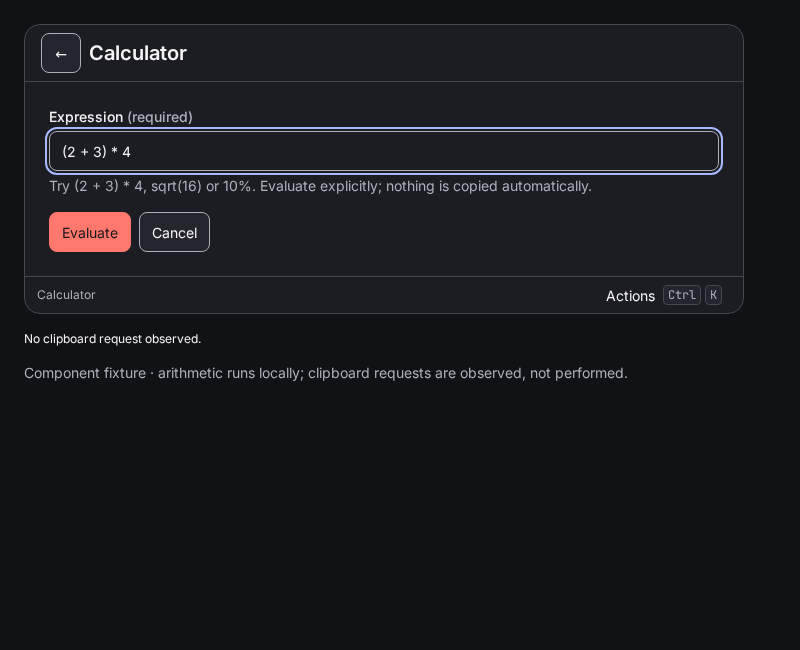
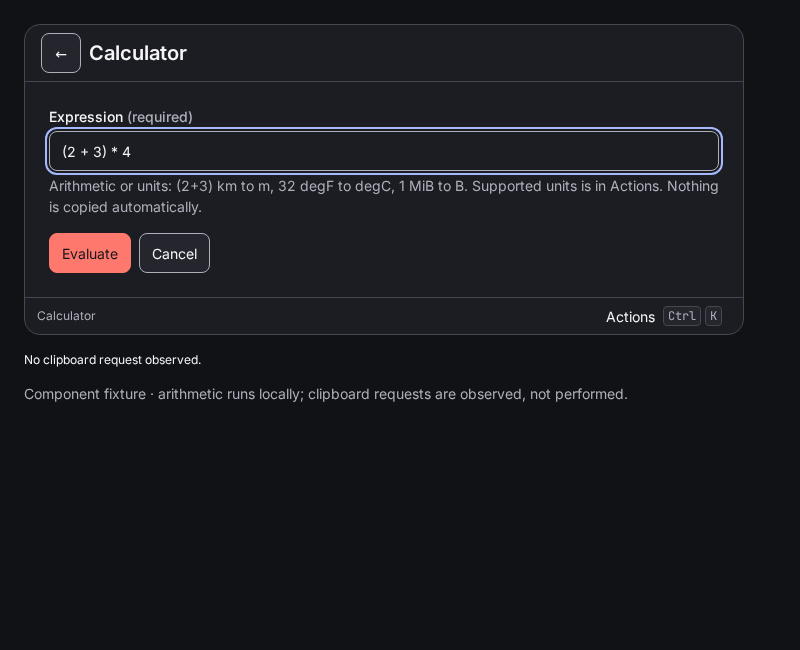
feat(calculator): present unit conversions and supported-unit help

Changed region(s): [[0.0312, 0.2769, 0.9062, 0.6154], [0.75, 0.4308, 0.9062, 0.5231]]

diff --git a/packages/builtins/calculator/src/presentation.ts b/packages/builtins/calculator/src/presentation.ts
@@ -1,44 +1,58 @@
-import { calculatorCopyReplySchema,calculatorExpressionSchema,calculatorResultTextSchema } from '@linuxcast/contracts';
+import { calculatorCopyReplySchema,calculatorExpressionSchema } from '@linuxcast/contracts';
 import type { LauncherApi,ViewModel } from '@linuxcast/contracts';
 import type { ActionIntent,ViewSession } from '@linuxcast/ui/views';
 import { evaluateExpression } from './evaluate.ts';
 import type { Calculation } from './types.ts';
-const EVALUATE='calculator:evaluate',CANCEL='calculator:cancel',COPY='calculator:copy',EDIT='calculator:edit';
+import { formatCalculationText } from './result.ts';
+import { getUnitCatalogue } from './units.ts';
+const EVALUATE='calculator:evaluate',CANCEL='calculator:cancel',COPY='calculator:copy',EDIT='calculator:edit',UNITS='calculator:units';
 const UNKNOWN='The copy outcome is unknown. Check your clipboard before choosing Copy result again.';
 const LEFT_PENDING='Copy may have occurred. Check your clipboard before copying again.';
 type Status={kind:'info'|'warning'|'error';message:string};
 type Success=Extract<Calculation,{ok:true}>;
-/** Local presentation only. Explicit numeric-result copy is the sole IPC action;
+/** Local presentation only. Explicit canonical-result copy is the sole IPC action;
  * main re-evaluates the expression and owns the actual clipboard operation. */
 export class CalculatorFlow {
   #session:ViewSession;#api:Pick<LauncherApi,'copyCalculatorResult'>;#registryRevision:number;
-  #formId:string;#resultId:string;#viewRevision=0;#opened=false;#resultOpen=false;#disposed=false;
+  #formId:string;#resultId:string;#helpId:string;#helpOpen=false;#viewRevision=0;#opened=false;#resultOpen=false;#disposed=false;
   #expression='';#error:string|undefined;#formStatus:Status|undefined;#resultStatus:Status|undefined;#calculation:Success|null=null;
   #pending:AbortController|null=null;
   constructor({session,api,viewId,revision}:{session:ViewSession;api:Pick<LauncherApi,'copyCalculatorResult'>;viewId:string;revision:number}){
-    this.#session=session;this.#api=api;this.#formId=`${viewId}-form`;this.#resultId=`${viewId}-result`;this.#registryRevision=revision;
+    this.#session=session;this.#api=api;this.#formId=`${viewId}-form`;this.#resultId=`${viewId}-result`;this.#helpId=`${viewId}-units`;this.#registryRevision=revision;
   }
   get active(){return this.#opened && !this.#disposed;}
-  owns(viewId:string){return viewId===this.#formId || viewId===this.#resultId;}
+  owns(viewId:string){return viewId===this.#formId || viewId===this.#resultId || viewId===this.#helpId;}
   open(fromViewId:string){
     if(this.#disposed || this.#opened || this.#session.getSnapshot().frames.at(-1)?.view.viewId!==fromViewId)return;
     this.#expression='';this.#error=undefined;this.#formStatus=undefined;this.#resultStatus=undefined;this.#calculation=null;
     this.#opened=this.#session.navigate({protocolVersion:1,kind:'push',fromViewId,view:this.#form()});
   }
   #form():ViewModel{return {protocolVersion:1,viewId:this.#formId,revision:++this.#viewRevision,kind:'form',title:'Calculator',
-    fields:[{id:'expression',kind:'text',title:'Expression',required:true,value:this.#expression,description:'Try (2 + 3) * 4, sqrt(16) or 10%. Evaluate explicitly; nothing is copied automatically.',...(this.#error?{error:this.#error}:{})}],
-    submitActionId:EVALUATE,cancelActionId:CANCEL,actions:[{id:EVALUATE,title:'Evaluate',kind:'invoke',effect:'read'},{id:CANCEL,title:'Cancel',kind:'invoke',effect:'read'}],...(this.#formStatus?{status:this.#formStatus}:{})};}
+    fields:[{id:'expression',kind:'text',title:'Expression',required:true,value:this.#expression,description:'Arithmetic or units: (2+3) km to m, 32 degF to degC, 1 MiB to B. Supported units is in Actions. Nothing is copied automatically.',...(this.#error?{error:this.#error}:{})}],
+    submitActionId:EVALUATE,cancelActionId:CANCEL,actions:[{id:EVALUATE,title:'Evaluate',kind:'invoke',effect:'read'},{id:CANCEL,title:'Cancel',kind:'invoke',effect:'read'},{id:UNITS,title:'Supported units',kind:'invoke',effect:'read'}],...(this.#formStatus?{status:this.#formStatus}:{})};}
   #result():ViewModel{return {protocolVersion:1,viewId:this.#resultId,revision:++this.#viewRevision,kind:'detail',title:'Calculation',loading:this.#pending!==null,
     markdown:'Numbers use floating-point arithmetic. Results are approximations shown with up to 15 significant digits. `%` divides the preceding value by 100; for example, 10% is 0.1.',
-    metadata:[{label:'Expression',value:this.#expression},{label:'Result',value:this.#calculation!.text}],attachments:[],
+    metadata:[{label:'Expression',value:this.#expression},{label:'Result',value:formatCalculationText(this.#calculation!)}],attachments:[],
     actions:[{id:COPY,title:'Copy result',kind:'invoke',effect:'write',...(this.#pending?{disabledReason:'Wait for the current copy request.'}:!this.#api.copyCalculatorResult?{disabledReason:'Clipboard copying is unavailable. Reopen Linuxcast to reconnect.'}:{})},{id:EDIT,title:'Edit expression',kind:'invoke',effect:'read'}],
     ...(this.#resultStatus?{status:this.#resultStatus}:!this.#api.copyCalculatorResult?{status:{kind:'warning',message:'Clipboard copying is unavailable. You can still evaluate and read results. Reopen Linuxcast to reconnect.'}}:{})};}
+  #help():ViewModel{
+    const groups=new Map<string,string[]>();
+    for(const unit of getUnitCatalogue()){
+      const label=unit.dimension.replace(/\b[a-z]/gu,letter=>letter.toUpperCase());
+      const entries=groups.get(label)??[];entries.push(`${unit.id} — ${unit.label}`);groups.set(label,entries);
+    }
+    return {protocolVersion:1,viewId:this.#helpId,revision:++this.#viewRevision,kind:'detail',title:'Supported units',
+      markdown:'Use a scalar arithmetic expression, a source unit, `to`, and a target in the same category. Examples: `(2+3) km to m`, `32 degF to degC`, `1 MiB to B`. Symbols are case-sensitive; use exactly the listed symbols.\n\nDuration `d` is 24 hours and `wk` is 7 days; these are fixed durations, not calendar dates or daylight-saving calculations. `degC` and `degF` represent absolute temperatures, not temperature differences. Absolute bounds are K ≥ 0, degC ≥ -273.15 and degF ≥ -459.67.\n\nData uses decimal prefixes (`kB`, `MB`) in powers of 1000 and binary prefixes (`KiB`, `MiB`) in powers of 1024. `B` means bytes and `bit` means bits.\n\nVolume symbols beginning with `US_` are US liquid measures. Symbols beginning with `imp_` are imperial measures. Use explicit symbols such as `US_gal` or `imp_gal`; bare `gal` is not supported. `oz` is mass; fluid ounces use `US_fl_oz` or `imp_fl_oz`.',
+      metadata:[...groups].map(([label,entries])=>({label,value:entries.join('; ')})),attachments:[],actions:[{id:EDIT,title:'Back to expression',kind:'invoke',effect:'read'}]};
+  }
   #publishForm(){if(this.active)this.#session.update(this.#formId,{protocolVersion:1,kind:'snapshot',view:this.#form()});}
   #publishResult(){if(this.active && this.#resultOpen && this.#calculation)this.#session.update(this.#resultId,{protocolVersion:1,kind:'snapshot',view:this.#result()});}
   async handle(intent:ActionIntent){
     const top=this.#session.getSnapshot().frames.at(-1);
     if(!this.active || !top || !this.owns(intent.viewId) || top.view.viewId!==intent.viewId || top.view.revision!==intent.revision || top.selection!==null || intent.itemId!==undefined || Object.keys(intent).some(key=>!['viewId','revision','actionId','values'].includes(key)))return;
+    if(intent.viewId===this.#helpId){if(this.#helpOpen && intent.actionId===EDIT && intent.values===undefined)this.#session.pop();return;}
     if(intent.viewId===this.#formId){
+      if(intent.actionId===UNITS && intent.values===undefined && !this.#pending && !this.#resultOpen && !this.#helpOpen){this.#helpOpen=this.#session.navigate({protocolVersion:1,kind:'push',fromViewId:this.#formId,view:this.#help()});return;}
       if(intent.actionId===CANCEL && intent.values===undefined){this.#session.pop();return;}
       if(intent.actionId!==EVALUATE || this.#pending)return;
       const values=intent.values,expression=values?.expression;
@@ -47,8 +61,8 @@ export class CalculatorFlow {
       if(!calculatorExpressionSchema.safeParse(expression).success){this.#error='Use a non-empty expression up to 512 UTF-8 bytes without control characters.';this.#publishForm();return;}
       let result:Calculation;
       try{result=evaluateExpression(expression);}catch{this.#error='This expression could not be evaluated. Check it and try again.';this.#publishForm();return;}
-      if(!result.ok){this.#error=result.code==='domain-error'?'This expression has no finite real result. Check divisions and function inputs.':result.code==='limit-exceeded'?'Reduce the expression length, number of operations or nesting depth.':'Enter a supported arithmetic expression.';this.#publishForm();return;}
-      if(!Number.isFinite(result.value) || !calculatorResultTextSchema.safeParse(result.text).success){this.#error='This expression could not be evaluated. Check it and try again.';this.#publishForm();return;}
+      if(!result.ok){this.#error=result.code==='domain-error'?(/\bto\b/u.test(expression)?'This expression has no finite real result. Check divisions, function inputs and absolute temperatures: K ≥ 0, degC ≥ -273.15, degF ≥ -459.67.':'This expression has no finite real result. Check divisions and function inputs.'):result.code==='limit-exceeded'?'Reduce the expression length, number of operations or nesting depth.':result.code==='unsupported-unit'?'Use a supported, case-sensitive unit symbol. Open Supported units in Actions for the list.':result.code==='incompatible-units'?'Choose source and target units from the same category. See Supported units in Actions.':'Enter a supported arithmetic expression.';this.#publishForm();return;}
+      try{formatCalculationText(result);}catch{this.#error='This expression could not be evaluated. Check it and try again.';this.#publishForm();return;}
       this.#error=undefined;this.#calculation=result;this.#resultStatus=undefined;this.#publishForm();
       this.#resultOpen=this.#session.navigate({protocolVersion:1,kind:'push',fromViewId:this.#formId,view:this.#result()});return;
     }
@@ -63,7 +77,7 @@ export class CalculatorFlow {
       if(!reply.ok){
         this.#resultStatus=['invalid-request','capability-unavailable','permission-denied','conflict','cancelled'].includes(reply.error.code)?{kind:'error',message:'The result was not copied. Check clipboard access or reopen Calculator, then choose Copy result again.'}:{kind:'error',message:UNKNOWN};return;
       }
-      if(reply.value.text!==calculation.text)throw new Error('Unconfirmed copy.');
+      if(reply.value.text!==calculation.text || reply.value.unit!==calculation.unit)throw new Error('Unconfirmed copy.');
       this.#resultStatus={kind:'info',message:'Result copied.'};
     }catch{if(this.#current(controller,calculation))this.#resultStatus={kind:'error',message:UNKNOWN};}
     finally{if(this.#pending===controller){this.#pending=null;if(this.active && this.#resultOpen && this.#session.getSnapshot().frames.at(-1)?.view.viewId===this.#resultId)this.#publishResult();}}
@@ -71,13 +85,14 @@ export class CalculatorFlow {
   #current(controller:AbortController,calculation:Success){return this.active && !controller.signal.aborted && this.#pending===controller && this.#calculation===calculation && this.#resultOpen && this.#session.getSnapshot().frames.at(-1)?.view.viewId===this.#resultId;}
   closed(viewId:string){
     if(!this.owns(viewId))return false;
+    if(viewId===this.#helpId){this.#helpOpen=false;return true;}
     if(viewId===this.#resultId){
       if(this.#pending){this.#pending.abort();this.#pending=null;this.#formStatus={kind:'warning',message:LEFT_PENDING};}
       this.#resultOpen=false;this.#calculation=null;this.#resultStatus=undefined;this.#publishForm();
-    }else{this.#opened=false;this.#resultOpen=false;this.#pending?.abort();this.#pending=null;this.#calculation=null;this.#expression='';}
+    }else{this.#opened=false;this.#resultOpen=false;this.#helpOpen=false;this.#pending?.abort();this.#pending=null;this.#calculation=null;this.#expression='';}
     return true;
   }
-  dispose(){this.#disposed=true;this.#opened=false;this.#resultOpen=false;this.#pending?.abort();this.#pending=null;this.#calculation=null;this.#expression='';}
+  dispose(){this.#disposed=true;this.#opened=false;this.#resultOpen=false;this.#helpOpen=false;this.#pending?.abort();this.#pending=null;this.#calculation=null;this.#expression='';}
 }
 function bounded<T>(promise:Promise<T>,signal:AbortSignal):Promise<T>{return new Promise((resolve,reject)=>{
   const finish=(fn:()=>void)=>{clearTimeout(timer);signal.removeEventListener('abort',abort);fn();};const abort=()=>finish(()=>reject(new Error('Cancelled.')));const timer=setTimeout(()=>finish(()=>reject(new Error('Deadline exceeded.'))),5000);signal.addEventListener('abort',abort,{once:true});if(signal.aborted){abort();return;}void promise.then(value=>finish(()=>resolve(value)),()=>finish(()=>reject(new Error('Request failed.'))));

diff --git a/packages/builtins/calculator/tests/presentation.test.ts b/packages/builtins/calculator/tests/presentation.test.ts
@@ -13,7 +13,7 @@ function act(f:ReturnType<typeof setup>,actionId:string,values?:Record<string,st
 const evaluate=(f:ReturnType<typeof setup>,expression='(2 + 3) * 4')=>act(f,'calculator:evaluate',{expression});
 describe('L2-04 Calculator shared presentation',()=>{
   it('opens only a labelled shared Form and preserves root query/selection without any IPC',()=>{
-    const f=setup();expect(f.flow.active).toBe(true);expect(top(f).view).toMatchObject({kind:'form',title:'Calculator',fields:[{id:'expression',title:'Expression',value:''}],actions:[{title:'Evaluate',effect:'read'},{title:'Cancel'}]});expect(f.session.getSnapshot().frames[0]).toMatchObject({query:'calculator',selection:'calculator'});expect(f.api.copyCalculatorResult).not.toHaveBeenCalled();f.flow.open('root');expect(f.session.getSnapshot().frames).toHaveLength(2);
+    const f=setup();expect(f.flow.active).toBe(true);expect(top(f).view).toMatchObject({kind:'form',title:'Calculator',fields:[{id:'expression',title:'Expression',value:''}],actions:[{title:'Evaluate',effect:'read'},{title:'Cancel'},{title:'Supported units',effect:'read'}]});expect(f.session.getSnapshot().frames[0]).toMatchObject({query:'calculator',selection:'calculator'});expect(f.api.copyCalculatorResult).not.toHaveBeenCalled();f.flow.open('root');expect(f.session.getSnapshot().frames).toHaveLength(2);
   });
   it('evaluates only on submit and renders static readonly metadata with approximation/percent semantics',async()=>{
     const f=setup();await evaluate(f);expect(top(f).view).toMatchObject({kind:'detail',title:'Calculation',metadata:[{label:'Expression',value:'(2 + 3) * 4'},{label:'Result',value:'20'}],attachments:[],actions:[{title:'Copy result',effect:'write'},{title:'Edit expression',effect:'read'}]});const view=top(f).view;if(view.kind!=='detail')throw new Error();expect(view.markdown).toContain('15 significant digits');expect(view.markdown).toContain('divides the preceding value by 100');expect(f.api.copyCalculatorResult).not.toHaveBeenCalled();
@@ -58,5 +58,38 @@ describe('L2-04 Calculator shared presentation',()=>{
   });
   it('ignores hidden result actions and obsolete evaluation revisions after returning to the form',async()=>{
     const f=setup(),form=top(f);await evaluate(f);const detail=top(f);await f.flow.handle({viewId:form.view.viewId,revision:form.view.revision,actionId:'calculator:evaluate',values:{expression:'9+9'}});f.session.pop();await f.flow.handle({viewId:detail.view.viewId,revision:detail.view.revision,actionId:'calculator:copy'});expect(f.api.copyCalculatorResult).not.toHaveBeenCalled();expect(top(f).view).toMatchObject({fields:[{value:'(2 + 3) * 4'}]});
+  });
+});
+
+describe('L2-04 closed-unit presentation',()=>{
+  it.each([
+    ['(2+3) km to m','5000 m'],['sqrt(16) km to m','4000 m'],['32 degF to degC','0 degC'],['1 MiB to B','1048576 B'],['1 MB to B','1000000 B'],['8 bit to B','1 B'],
+  ])('shows canonical unit result for %s without implicit copy',async(expression,expected)=>{
+    const f=setup();await evaluate(f,expression);expect(top(f).view).toMatchObject({kind:'detail',metadata:[{label:'Expression',value:expression},{label:'Result',value:expected}]});expect(f.api.copyCalculatorResult).not.toHaveBeenCalled();
+  });
+  it.each(['1 mb to B','1 gal to L','1 C to F'])('retains unsupported or ambiguous unit %s with case-sensitive help remediation',async expression=>{
+    const f=setup();await evaluate(f,expression);expect(top(f).view).toMatchObject({kind:'form',fields:[{value:expression,error:'Use a supported, case-sensitive unit symbol. Open Supported units in Actions for the list.'}]});expect(f.api.copyCalculatorResult).not.toHaveBeenCalled();
+  });
+  it('retains incompatible units and invalid absolute temperature as fixed inline failures',async()=>{
+    const f=setup();await evaluate(f,'1 m to kg');expect(top(f).view).toMatchObject({fields:[{error:'Choose source and target units from the same category. See Supported units in Actions.'}]});await evaluate(f,'-1 K to degC');expect(top(f).view).toMatchObject({fields:[{error:'This expression has no finite real result. Check divisions, function inputs and absolute temperatures: K ≥ 0, degC ≥ -273.15, degF ≥ -459.67.'}]});expect(f.api.copyCalculatorResult).not.toHaveBeenCalled();
+  });
+  it('opens readonly help only from Form, uses fixed public metadata and preserves the existing Form frame',async()=>{
+    const f=setup(),before=top(f);await act(f,'calculator:units');expect(f.flow.owns('test-calculator-units')).toBe(true);expect(top(f).view).toMatchObject({kind:'detail',title:'Supported units',attachments:[],actions:[{title:'Back to expression',effect:'read'}]});const help=top(f).view;if(help.kind!=='detail')throw new Error();expect(help.metadata).toHaveLength(12);expect(help.metadata.map(value=>value.label)).toEqual(expect.arrayContaining(['Length','Mass','Duration','Temperature','Angle','Data','Area','Volume','Speed','Energy','Power','Pressure']));expect(help.metadata.find(value=>value.label==='Data')?.value).toContain('MiB');expect(help.markdown).toContain('case-sensitive');expect(help.markdown).toContain('fixed durations');expect(help.markdown).toContain('absolute temperatures');expect(help.markdown).toContain('imperial');await act(f,'calculator:copy');await act(f,'calculator:evaluate',{expression:'2+2'});expect(top(f).view.title).toBe('Supported units');expect(f.api.copyCalculatorResult).not.toHaveBeenCalled();await act(f,'calculator:edit');expect(top(f).view).toBe(before.view);expect(f.session.getSnapshot().frames).toHaveLength(2);await evaluate(f);await act(f,'calculator:units');expect(top(f).view.title).toBe('Calculation');expect(f.session.getSnapshot().frames).toHaveLength(3);
+  });
+  it('rejects stale help actions after reopening and disposes without a result or copy',async()=>{
+    const f=setup();await act(f,'calculator:units');const old=top(f);f.session.pop();await act(f,'calculator:units');await f.flow.handle({viewId:old.view.viewId,revision:old.view.revision,actionId:'calculator:edit'});expect(top(f).view.title).toBe('Supported units');f.session.pop();f.session.pop();expect(f.flow.active).toBe(false);f.flow.dispose();expect(f.api.copyCalculatorResult).not.toHaveBeenCalled();
+  });
+  it('accepts a unit copy receipt only when both numeric text and canonical unit match',async()=>{
+    const copy=vi.fn<NonNullable<LauncherApi['copyCalculatorResult']>>(async()=>({ok:true,value:{outcome:'copied',text:'5000',unit:'m'}}));const f=setup({copyCalculatorResult:copy});await evaluate(f,'(2+3) km to m');await act(f,'calculator:copy');expect(copy).toHaveBeenCalledExactlyOnceWith({revision:7,expression:'(2+3) km to m'});expect(top(f).view.status?.message).toBe('Result copied.');
+  });
+  it.each(['wrong-unit','missing-unit','unknown-unit','invalid-unit','wrong-number'] as const)('treats %s receipt as unknown rather than claiming a unit copy',async mode=>{
+    const reply={ok:true,value:{outcome:'copied',text:mode==='wrong-number'?'5':'5000',...(mode==='missing-unit'?{}:{unit:mode==='wrong-unit'?'km':mode==='unknown-unit'?'USD':mode==='invalid-unit'?null:'m'})}};
+    const copy=vi.fn<NonNullable<LauncherApi['copyCalculatorResult']>>(async()=>reply as never);const f=setup({copyCalculatorResult:copy});await evaluate(f,'(2+3) km to m');await act(f,'calculator:copy');expect(top(f).view.status?.message).toBe('The copy outcome is unknown. Check your clipboard before choosing Copy result again.');expect(copy).toHaveBeenCalledTimes(1);
+  });
+  it('rejects a unit-bearing receipt for a unitless arithmetic result',async()=>{
+    const f=setup({copyCalculatorResult:vi.fn<NonNullable<LauncherApi['copyCalculatorResult']>>(async()=>({ok:true,value:{outcome:'copied',text:'20',unit:'m'}}))});await evaluate(f);await act(f,'calculator:copy');expect(top(f).view.status?.message).toContain('Check your clipboard');
+  });
+  it('ignores a late unit receipt after editing and evaluating a different conversion',async()=>{
+    let finish!:(value:Awaited<ReturnType<NonNullable<LauncherApi['copyCalculatorResult']>>>)=>void;const copy=vi.fn<NonNullable<LauncherApi['copyCalculatorResult']>>(()=>new Promise(resolve=>{finish=resolve;}));const f=setup({copyCalculatorResult:copy});await evaluate(f,'(2+3) km to m');const pending=act(f,'calculator:copy');await act(f,'calculator:edit');await evaluate(f,'1 MiB to B');await pending;const before=f.session.getSnapshot();finish({ok:true,value:{outcome:'copied',text:'5000',unit:'m'}});await Promise.resolve();expect(f.session.getSnapshot()).toBe(before);expect(top(f).view).toMatchObject({metadata:[{label:'Expression',value:'1 MiB to B'},{label:'Result',value:'1048576 B'}]});expect(top(f).view.status?.message).not.toBe('Result copied.');expect(copy).toHaveBeenCalledTimes(1);
   });
 });

diff --git a/packages/builtins/calculator/tests/calculator.ui.test.ts b/packages/builtins/calculator/tests/calculator.ui.test.ts
@@ -34,3 +34,17 @@ for(const mode of ['unknown','mismatch'])test(`${mode} copy receipt requires che
 test('known clipboard unavailability is actionable and a missing API leaves evaluation available',async({page})=>{
   await ready(page,'?state=unavailable');await evaluate(page);await page.getByRole('button',{name:'Copy result Enter',exact:true}).click();await expect(page.getByRole('alert')).toContainText('Check clipboard access');await page.screenshot({path:`${evidence}/dark-copy-unavailable.png`,fullPage:true});await ready(page,'?state=missing-api&theme=light');await evaluate(page,'10%');await expect(page.getByText('0.1',{exact:true})).toBeVisible();await expect(page.getByRole('button',{name:'Copy result Enter',exact:true})).toBeDisabled();await expect(page.getByText(/Clipboard copying is unavailable. You can still evaluate/)).toBeVisible();expect((await new AxeBuilder({page}).analyze()).violations).toEqual([]);await page.screenshot({path:`${evidence}/light-copy-missing.png`,fullPage:true});
 });
+
+async function supportedUnits(page:Page){await page.keyboard.press('Control+k');const query=page.getByRole('searchbox',{name:'Find an action'});await query.fill('Supported units');await query.press('Enter');await expect(page.getByRole('heading',{name:'Supported units',exact:true})).toBeVisible();}
+for(const theme of ['dark','light'])test(`${theme} explicit conversion shows canonical units and copies only on request`,async({page})=>{
+  await ready(page,`?theme=${theme}`);await expect(page.getByText(/Arithmetic or units:/)).toContainText('(2+3) km to m');await evaluate(page,'(2+3) km to m');await expect(page.getByText('5000 m',{exact:true})).toBeVisible();await expect(page.locator('output')).toHaveText('No clipboard request observed.');expect((await new AxeBuilder({page}).analyze()).violations).toEqual([]);await page.screenshot({path:`${evidence}/${theme}-unit-result.png`,fullPage:true});await page.getByRole('button',{name:'Copy result Enter',exact:true}).click();await expect(page.getByText('Result copied.',{exact:true})).toBeVisible();await expect(page.locator('output')).toHaveText('Requested numeric result copy for (2+3) km to m.');await edit(page);await evaluate(page,'32 degF to degC');await expect(page.getByText('0 degC',{exact:true})).toBeVisible();await edit(page);await evaluate(page,'1 MiB to B');await expect(page.getByText('1048576 B',{exact:true})).toBeVisible();await edit(page);await evaluate(page,'1 MB to B');await expect(page.getByText('1000000 B',{exact:true})).toBeVisible();
+});
+for(const theme of ['dark','light'])test(`${theme} readonly Supported units preserves an unsent draft/focus and does not evaluate or copy`,async({page})=>{
+  await ready(page,`?theme=${theme}`);await field(page).fill('sqrt(16) km to m');await supportedUnits(page);await expect(page.getByRole('dialog',{name:'Discard this draft?',exact:true})).not.toBeVisible();await expect(page.getByText('Length',{exact:true})).toBeVisible();await expect(page.getByText('Temperature',{exact:true})).toBeVisible();await expect(page.getByText('Volume',{exact:true})).toBeVisible();await expect(page.getByText(/Symbols are case-sensitive/)).toBeVisible();await expect(page.getByRole('heading',{name:'Calculation',exact:true})).not.toBeVisible();await expect(page.locator('output')).toHaveText('No clipboard request observed.');expect((await new AxeBuilder({page}).analyze()).violations).toEqual([]);await page.screenshot({path:`${evidence}/${theme}-supported-units.png`,fullPage:true});await page.keyboard.press('Escape');await expect(field(page)).toHaveValue('sqrt(16) km to m');await expect(field(page)).toBeFocused();await field(page).press('Enter');await expect(page.getByText('4000 m',{exact:true})).toBeVisible();await page.keyboard.press('Control+k');await page.getByRole('searchbox',{name:'Find an action'}).fill('Supported units');await expect(page.getByRole('button',{name:'Supported units',exact:true})).toHaveCount(0);await page.keyboard.press('Escape');
+});
+for(const theme of ['dark','light'])test(`${theme} unsupported and incompatible unit errors retain drafts with help remediation`,async({page})=>{
+  await ready(page,`?theme=${theme}`);await field(page).fill('1 mb to B');await field(page).press('Enter');await expect(field(page)).toHaveValue('1 mb to B');await expect(page.getByText('Use a supported, case-sensitive unit symbol. Open Supported units in Actions for the list.',{exact:true})).toBeVisible();expect((await new AxeBuilder({page}).analyze()).violations).toEqual([]);await page.screenshot({path:`${evidence}/${theme}-unit-validation.png`,fullPage:true});await field(page).fill('1 m to kg');await field(page).press('Enter');await expect(page.getByText('Choose source and target units from the same category. See Supported units in Actions.',{exact:true})).toBeVisible();await field(page).fill('1 gal to L');await field(page).press('Enter');await expect(page.getByText('Use a supported, case-sensitive unit symbol. Open Supported units in Actions for the list.',{exact:true})).toBeVisible();await field(page).fill('-1 K to degC');await field(page).press('Enter');await expect(page.getByText('This expression has no finite real result. Check divisions, function inputs and absolute temperatures: K ≥ 0, degC ≥ -273.15, degF ≥ -459.67.',{exact:true})).toBeVisible();await expect(page.locator('output')).toHaveText('No clipboard request observed.');
+});
+for(const mode of ['unit-mismatch','unit-missing','unit-unknown'])test(`${mode} copy acknowledgement stays unknown and is never replayed`,async({page})=>{
+  await ready(page,`?state=${mode}`);await evaluate(page,'(2+3) km to m');await page.getByRole('button',{name:'Copy result Enter',exact:true}).click();await expect(page.getByRole('alert')).toContainText('Check your clipboard');await expect(page.getByText('Result copied.',{exact:true})).not.toBeVisible();await edit(page);await evaluate(page,'1 MiB to B');await expect(page.locator('output')).toHaveText('Requested numeric result copy for (2+3) km to m.');
+});

diff --git a/packages/builtins/calculator/fixtures/main.tsx b/packages/builtins/calculator/fixtures/main.tsx
@@ -20,9 +20,12 @@ function Fixture(){
       if(mode==='pending')await new Promise(resolve=>setTimeout(resolve,600));
       if(mode==='unknown')throw new Error('synthetic private detail');
       if(mode==='unavailable')return {ok:false,error:{code:'capability-unavailable',message:'synthetic private detail',retryable:false}};
+      if(mode==='unit-mismatch')return {ok:true,value:{outcome:'copied',text:'5000',unit:'km'}};
+      if(mode==='unit-missing')return {ok:true,value:{outcome:'copied',text:'5000'}};
+      if(mode==='unit-unknown')return {ok:true,value:{outcome:'copied',text:'5000',unit:'not-a-unit'}} as never;
       if(mode==='mismatch')return {ok:true,value:{outcome:'copied',text:'999'}};
       const result=evaluateExpression(request.expression);if(!result.ok)return {ok:false,error:{code:'invalid-request',message:'synthetic private detail',retryable:false}};
-      return {ok:true,value:{outcome:'copied',text:result.text}};
+      return {ok:true,value:{outcome:'copied',text:result.text,...(result.unit?{unit:result.unit}:{})}};
     }};
     const flow=new CalculatorFlow({session,api,viewId:'fixture-calculator',revision:7});
     const host:ViewHost={action:intent=>{if(flow.active){void flow.handle(intent);return;}if(intent.actionId==='calculator')flow.open('root');}};

diff --git a/packages/builtins/calculator/README.md b/packages/builtins/calculator/README.md
@@ -1,4 +1,4 @@
-# Explicit arithmetic calculator — bounded L2-04 increment
+# Explicit arithmetic and unit calculator — bounded L2-04 increments
 
 `CalculatorFlow` uses the existing launcher's shared `ViewSession` and host
 `ViewRenderer`. It pushes a Calculator Form onto the supplied parent view, then
@@ -18,9 +18,9 @@ cannot supply HTML, Markdown, links or executable content.
 
 **Copy result** is a separate primary write action. It uses only the optional
 named `copyCalculatorResult({revision, expression})` API. Main re-evaluates the
-expression and copies numeric result text; the renderer has no arbitrary
-clipboard interface. A strict copied receipt must carry exactly the result text
-shown in the Detail before the UI reports “Result copied.” No automatic copy,
+expression and copies the canonical numeric result with its optional closed unit; the renderer
+has no arbitrary clipboard interface. A strict copied receipt must match both
+the numeric text and optional unit shown in the Detail before the UI reports “Result copied.” No automatic copy,
 hide, persistence, expression history or remote request is introduced.
 
 Pending copy disables duplicates and has a five-second presentation bound.
@@ -39,6 +39,45 @@ the shared discard UI. Action handling validates current owned view/revision,
 absence of item selection, allowed intent keys and the exact single Expression
 form value. Stale, hidden, malformed and disposed intents cannot evaluate/copy.
 
+## Unit conversion and read-only help
+
+The same Form accepts a scalar arithmetic expression followed by a supported
+source unit, `to`, and a target from the same category. Examples are `(2+3) km to
+m`, `32 degF to degC` and `1 MiB to B`; function scalars such as `sqrt(16) km to
+m` use the same evaluator. Arithmetic without units retains its existing result
+format. Conversion results use the shared `formatCalculationText` formatter:
+numeric text, one space and the canonical unit symbol. The main process uses the
+same formatter when it independently recomputes a requested copy.
+
+**Supported units** is a discoverable read action in the Form's Actions panel.
+It pushes a read-only shared Detail with fixed semantic instructions and public
+catalogue metadata grouped into Length, Mass, Duration, Temperature, Angle, Data,
+Area, Volume, Speed, Energy, Power and Pressure. Help does not evaluate, submit,
+copy or discard the unsent Form draft. Back/Escape returns to that same mounted
+Form. Help is unavailable from a result so the launcher keeps at most two nested
+calculator frames: Form plus either result or help.
+
+Symbols are case-sensitive and limited to the closed 92-symbol catalogue;
+unsupported or ambiguous identifiers receive fixed Supported units remediation.
+Incompatible categories receive a fixed same-category explanation. Prefixes,
+unit names and dimension-changing quantity algebra are not inferred.
+
+- `d` is exactly 24 hours; `wk` is seven such days. These are fixed durations,
+  separate from calendar dates, timezones and daylight-saving transitions.
+- `K`, `degC` and `degF` represent absolute temperatures. Temperature differences
+  and contextual interpretations are unsupported. Bounds are K ≥ 0,
+  degC ≥ -273.15 and degF ≥ -459.67; lower values receive a fixed domain error.
+- Data prefixes `kB`/`MB` and their bit equivalents use powers of 1000;
+  `KiB`/`MiB` and their bit equivalents use powers of 1024. `B` means bytes and
+  `bit` means bits. Capitalization is significant.
+- `US_gal`, `US_qt`, `US_pt` and `US_fl_oz` are US liquid measures.
+  `imp_gal` and `imp_fl_oz` are imperial measures. Bare `gal` is unsupported;
+  `oz` is a mass unit, while fluid ounces use the explicit volume identifiers.
+
+Copy remains explicit. Missing, mismatched, invalid or unknown acknowledgement
+units are unknown copy outcomes, even if the numeric text matches. Back, hidden,
+disposed and stale unit-copy replies retain the existing no-replay guards.
+
 Design references: DESIGN.md Shell and navigation; Results and actions; List,
 grid, detail and form; States and motion; Accessibility; Review gate. Production
 presentation contains only semantic ViewModels and existing host primitives,
@@ -46,24 +85,27 @@ tokens/fonts. `fixtures/preview.css` only lays out the labelled fixture.
 
 ## Evidence and remaining scope
 
-`tests/presentation.test.ts` has 29 passing presentation checks and
-`tests/calculator.ui.test.ts` has 10 passing Chromium keyboard/axe checks covering
+`tests/presentation.test.ts` has 49 passing presentation checks and
+`tests/calculator.ui.test.ts` has 19 passing Chromium keyboard/axe checks covering
 explicit Form and Detail transitions, draft errors/domain/oversize, clipboard unavailability,
 unknown/mismatched/pending replies, back/dirty cancel/focus, stale/disposed actions
-and local readonly metadata. `fixtures/` explicitly observes clipboard requests
+and local readonly metadata. Unit cases add length/function-scalar, temperature, decimal/binary
+data, unsupported/ambiguous and incompatible units, help draft/focus navigation,
+and exact numeric-text/unit copy acknowledgement checks. `fixtures/` explicitly observes clipboard requests
 without touching the host clipboard. Public arithmetic expressions alone enter
 test screenshots; no user content, secrets or external requests are used.
-Nine screenshots cover dark/light Form, result and validation plus unknown,
-unavailable and missing-copy states. Dark Form/validation/unknown and light result
-were visually inspected. Development checks use Node 24.22.1/Bun 1.4.4.
+Fifteen component screenshots cover dark/light Form, arithmetic and unit results,
+validation, Supported units help, plus unknown, unavailable and missing-copy
+states. Dark help/unit validation and light unit result were visually inspected;
+the shared help-return focus fix is verified in both themes. Development checks use Node 24.22.1/Bun 1.4.4.
 Typecheck, scoped lint and plan validation pass. Browser checks require a local
 fixture server and real Chromium processes; they are not native clipboard proof.
 
-This presentation contributes bounded L2-04-AC01, UI and privacy evidence. The
-separate evaluator lane owns parser and numeric correctness. Coordinator main/
+This presentation contributes bounded L2-04-AC01 and partial AC02 unit-conversion
+UI and privacy evidence. The
+separate evaluator lane owns parser, conversion tables and numeric correctness. Coordinator main/
 preload/launcher routing owns sender validation, recomputation, actual clipboard
-and production Electron integration. Full L2-04 remains incomplete: units,
-dates/timezones/DST, colours, configured currency/crypto adapters, timestamped
+and production Electron integration. Full L2-04 remains incomplete: calendar dates/timezones/DST, colours, configured currency/crypto adapters, timestamped
 fixture-backed cache and stale/offline rate behavior remain required. Debian
 GNOME/KDE Wayland/X11, native assistive technology and full release acceptance
 remain pending. The complete local 1.0 scope is unchanged.
